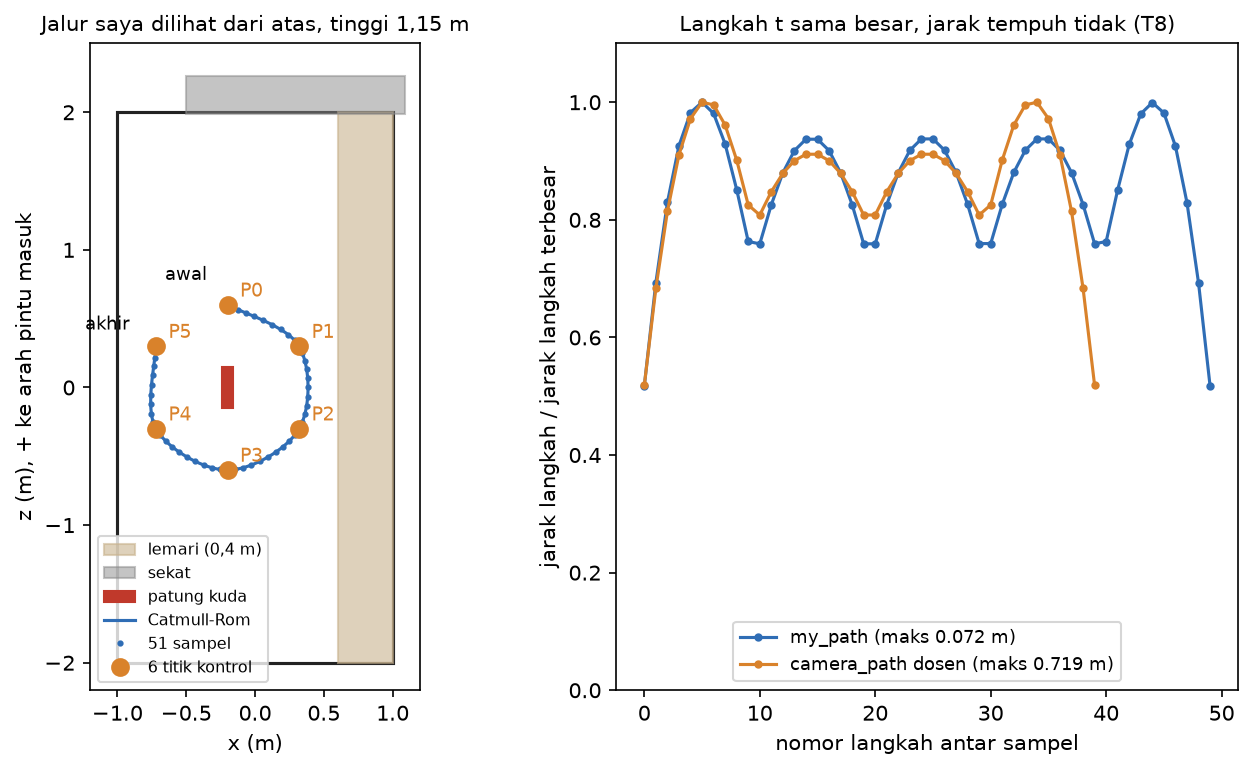
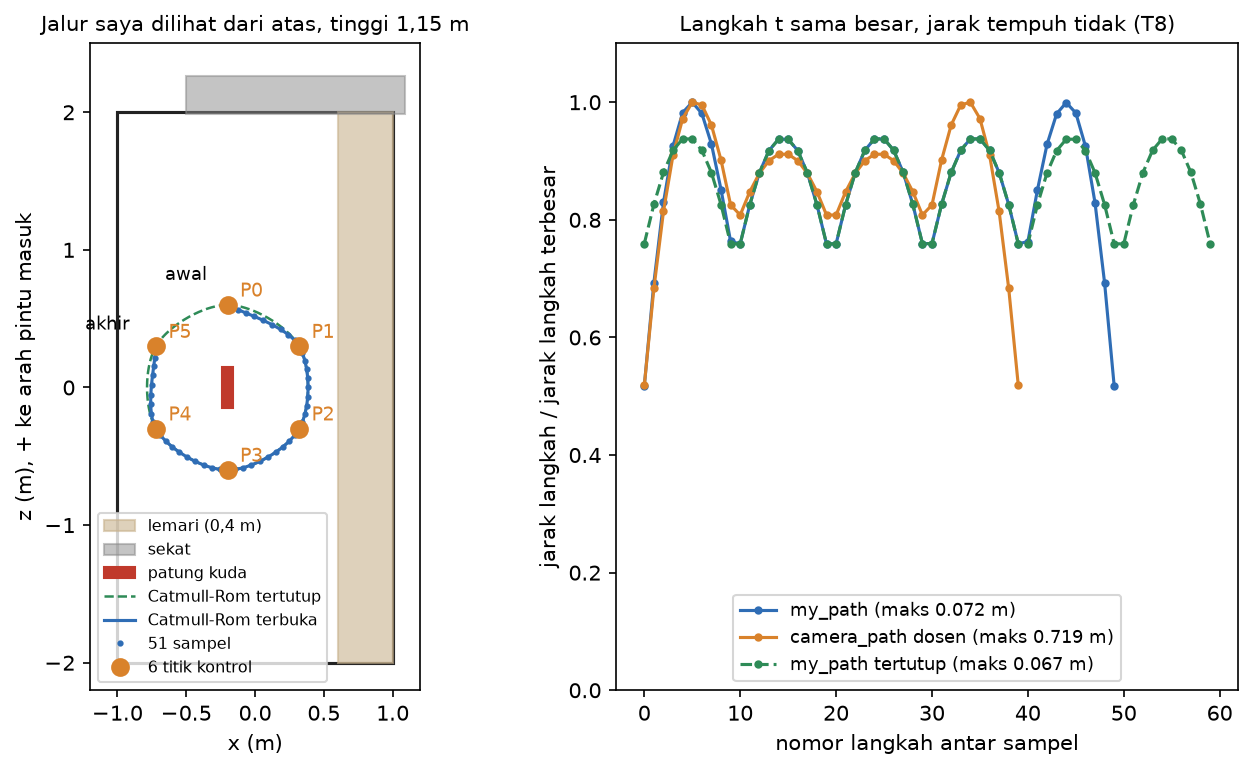
Tambah spline Catmull-Rom tertutup supaya jalur kamera bisa memutari patung penuh, dan buktikan sambungannya mulus di semua titik termasuk dari titik terakhir kembali ke titik pertama

diff --git a/Module4/Source/spline.py b/Module4/Source/spline.py
@@ -6,8 +6,10 @@ P0..P3; the weights below are the rows of the Catmull-Rom basis matrix applied t
 (0, 0, 1, 0) at t = 1 (so the curve passes through P1 and P2), and give the
 tangent (P2 - P0) / 2 at P1, shared by both segments that meet there (C1).
 
-Points are tuples of any length (2D or 3D). The path sampler duplicates the first
-and last control point so the curve starts and ends exactly on them.
+Points are tuples of any length (2D or 3D). The open path sampler duplicates the
+first and last control point so the curve starts and ends exactly on them; the
+closed sampler takes the neighbours cyclically instead, so the last segment runs
+back to the first point with the same C1 tangent rule at every point.
 """
 from __future__ import annotations
 
@@ -27,6 +29,23 @@ def catmull_rom_weights(t):
         0.5 * (t + 4.0 * t2 - 3.0 * t3),
         0.5 * (-t2 + t3),
     )
+
+
+def catmull_rom_weight_slopes(t):
+    """d/dt of catmull_rom_weights(t): the weights of the tangent q'(t)."""
+    t2 = t * t
+    return (
+        0.5 * (-1.0 + 4.0 * t - 3.0 * t2),
+        0.5 * (-10.0 * t + 9.0 * t2),
+        0.5 * (1.0 + 8.0 * t - 9.0 * t2),
+        0.5 * (-2.0 * t + 3.0 * t2),
+    )
+
+
+def catmull_rom_tangent(p0, p1, p2, p3, t):
+    """Tangent q'(t) on the segment between p1 and p2 (per unit t)."""
+    w = catmull_rom_weight_slopes(t)
+    return tuple(w[0] * a + w[1] * b + w[2] * c + w[3] * d for a, b, c, d in zip(p0, p1, p2, p3))
 
 
 def catmull_rom_point(p0, p1, p2, p3, t):
@@ -50,6 +69,27 @@ def sample_path(control_points, samples_per_segment=20):
         for i in range(samples_per_segment):
             out.append(catmull_rom_point(p0, p1, p2, p3, i / samples_per_segment))
     out.append(pts[-2])
+    return out
+
+
+def closed_segments(control_points):
+    """(p0, p1, p2, p3) of every segment of the closed loop, neighbours taken cyclically."""
+    pts = [tuple(p) for p in control_points]
+    n = len(pts)
+    return [(pts[i - 1], pts[i], pts[(i + 1) % n], pts[(i + 2) % n]) for i in range(n)]
+
+
+def sample_closed_path(control_points, samples_per_segment=20):
+    """Sample a closed Catmull-Rom loop through >= 3 control points.
+
+    k control points give k segments and k * n samples; sample i * n is exactly
+    control point i, and the loop closes because the sample after the last one is
+    control point 0 again (it is not repeated in the list).
+    """
+    out = []
+    for p0, p1, p2, p3 in closed_segments(control_points):
+        for i in range(samples_per_segment):
+            out.append(catmull_rom_point(p0, p1, p2, p3, i / samples_per_segment))
     return out
 
 
@@ -94,6 +134,9 @@ if __name__ == "__main__":
         print(f"  path start = {_fmt(path[0])}")
         print(f"  path end   = {_fmt(path[-1])}")
         print(f"  sample spacing min {min(gaps):.3f}, max {max(gaps):.3f} (equal t steps, unequal distance)")
+    loop = sample_closed_path(load_my_path(), samples_per_segment=10)
+    gaps = sample_spacing(loop + [loop[0]])
+    print(f"my_path.json closed loop: {len(loop)} samples, spacing min {min(gaps):.3f}, max {max(gaps):.3f}")
     print("my_path.json samples (x, y, z) in m:")
     for i, p in enumerate(sample_path(load_my_path(), samples_per_segment=10)):
         print(f"  {i:2d} {_fmt(p)}")

diff --git a/Module4/Source/tests.py b/Module4/Source/tests.py
@@ -12,7 +12,8 @@ import random
 from fk import Bone, bone_matrices, forward_kinematics, running_example as fk_running_example
 from ik import fk_error, solve_two_bone_ik, UnreachableTarget, running_example as ik_running_example
 from spline import (
-    catmull_rom_weights, sample_path, load_camera_path, load_my_path, load_path,
+    catmull_rom_weights, catmull_rom_point, catmull_rom_tangent, closed_segments, sample_closed_path,
+    sample_path, sample_spacing, load_camera_path, load_my_path, load_path,
     running_example as spline_running_example,
 )
 from quaternion import (
@@ -208,6 +209,37 @@ def test_my_path():
         check(f"catmull-rom weights sum to 1 at t={t}", sum(catmull_rom_weights(t)), 1.0, tol=1e-12)
 
 
+def test_closed_path():
+    """Closed loop through my 6 points: passes them, C1 at every joint, still clear of the walls."""
+    cps = load_my_path()
+    loop = sample_closed_path(cps, samples_per_segment=10)
+    check("closed my_path: 6 points -> 60 samples (6 segments, the loop closes on point 0)", len(loop), 60)
+    for i, cp in enumerate(cps):
+        check_point(f"closed path passes control point {i}", loop[10 * i], cp, tol=0.0)
+    segs = closed_segments(cps)
+    worst_join = worst_rule = 0.0
+    for i in range(len(segs)):
+        left = catmull_rom_tangent(*segs[i - 1], 1.0)    # end of the segment arriving at point i
+        right = catmull_rom_tangent(*segs[i], 0.0)       # start of the segment leaving point i
+        rule = tuple((a - b) / 2.0 for a, b in zip(segs[i][2], segs[i][0]))   # (P(i+1) - P(i-1)) / 2
+        worst_join = max(worst_join, math.dist(left, right))
+        worst_rule = max(worst_rule, math.dist(right, rule))
+    check("closed path is C1 at all 6 joints, including the one back to point 0", worst_join, 0.0, tol=1e-12)
+    check("tangent at each point = (next - previous) / 2", worst_rule, 0.0, tol=1e-12)
+    p0, p1, p2, p3 = segs[2]
+    h = 1e-6
+    fd = tuple((a - b) / (2 * h) for a, b in zip(catmull_rom_point(p0, p1, p2, p3, 0.37 + h),
+                                                 catmull_rom_point(p0, p1, p2, p3, 0.37 - h)))
+    check("catmull_rom_tangent = finite difference of catmull_rom_point", math.dist(fd, catmull_rom_tangent(
+        p0, p1, p2, p3, 0.37)), 0.0, tol=1e-8)
+    dense = sample_closed_path(cps, samples_per_segment=200)
+    clearance = min(min(p[0] + 1.0, 0.6 - p[0], p[2] + 2.0, 2.0 - p[2]) for p in dense)
+    check("closed path keeps >= 0.2 m from the walls and the cabinet", clearance >= 0.2, True)
+    gaps = sample_spacing(loop + [loop[0]])
+    check("closed loop spacing is more even than the open path (max/min)", max(gaps) / min(gaps) < max(
+        sample_spacing(sample_path(cps, 10))) / min(sample_spacing(sample_path(cps, 10))), True)
+
+
 def test_camera_path_copies():
     """Godot cannot read res://../, so it has its own copy: control points must stay identical (K11)."""
     a = load_camera_path()
@@ -339,6 +371,7 @@ if __name__ == "__main__":
     test_fk_matrices()
     test_spline()
     test_my_path()
+    test_closed_path()
     test_camera_path_copies()
     test_quaternion()
     test_quaternion_algebra()

diff --git a/Module4/Source/figures.py b/Module4/Source/figures.py
@@ -27,7 +27,7 @@ from foot_slide_bug import (  # noqa: E402
     REPORTED_SPEED, STRIDE_CHANGE, constant_speed, diagnose, matched_speed, root_motion, walk,
 )
 from my_chain import angles_from_photo, load_chain  # noqa: E402
-from spline import load_camera_path, load_my_path, sample_path, sample_spacing  # noqa: E402
+from spline import load_camera_path, load_my_path, sample_closed_path, sample_path, sample_spacing  # noqa: E402
 
 HERE = os.path.dirname(os.path.abspath(__file__))
 DEFAULT_OUT = {
@@ -336,7 +336,10 @@ def fig_my_path(out_dir):
     a1.add_patch(plt.Rectangle((0.6, -2.0), 0.4, 4.0, color="#c9b38f", alpha=0.6, label="lemari (0,4 m)"))
     a1.add_patch(plt.Rectangle((-0.5, 1.99), 1.59, 0.27, color=MUTED, alpha=0.5, label="sekat"))
     a1.add_patch(plt.Rectangle((-0.24, -0.15), 0.08, 0.30, color=BAD, label="patung kuda"))
-    a1.plot([p[0] for p in dense], [p[2] for p in dense], color=BONE1, lw=1.5, label="Catmull-Rom")
+    loop = sample_closed_path(cps, samples_per_segment=100)
+    loop.append(loop[0])
+    a1.plot([p[0] for p in loop], [p[2] for p in loop], color=GOOD, lw=1.2, ls="--", label="Catmull-Rom tertutup")
+    a1.plot([p[0] for p in dense], [p[2] for p in dense], color=BONE1, lw=1.5, label="Catmull-Rom terbuka")
     a1.plot([p[0] for p in path], [p[2] for p in path], ".", color=BONE1, ms=4, label="51 sampel")
     a1.plot([p[0] for p in cps], [p[2] for p in cps], "o", color=BONE2, ms=8, label="6 titik kontrol")
     for i, p in enumerate(cps):
@@ -356,6 +359,10 @@ def fig_my_path(out_dir):
             label=f"my_path (maks {max(mine):.3f} m)")
     a2.plot(range(len(theirs)), [g / max(theirs) for g in theirs], color=BONE2, marker=".",
             label=f"camera_path dosen (maks {max(theirs):.3f} m)")
+    closed = sample_closed_path(cps, samples_per_segment=10)
+    shut = sample_spacing(closed + [closed[0]])
+    a2.plot(range(len(shut)), [g / max(mine) for g in shut], color=GOOD, marker=".", ls="--",
+            label=f"my_path tertutup (maks {max(shut):.3f} m)")
     a2.set_ylim(0, 1.1)
     a2.set_xlabel("nomor langkah antar sampel")
     a2.set_ylabel("jarak langkah / jarak langkah terbesar")

diff --git a/Module4/docs/catatan/fase3-primitif.md b/Module4/docs/catatan/fase3-primitif.md
@@ -131,3 +131,25 @@ Saya juga membuktikan `test_stdlib_only` benar-benar bisa gagal: setelah `import
 ## Gambar
 
 `figures.py --set readme` sekarang membuat `docs/img/my_chain_fk.png`, `docs/img/ik_my_arm.png`, dan `docs/img/my_path.png`. Dua gambar Studi Pendahuluan (`q3_slerp_vs_linear.png` dan `q3_spline_vs_linear.png`) ikut saya buat ulang dengan kode baru. Perbedaannya hanya 141 pixel dan 2 pixel, dengan selisih warna paling besar 2 dari 255 (pembulatan float di urutan 1e-15 yang menggeser antialiasing). Saya tetap meng-commit versi barunya, supaya file di repo sama persis dengan yang dihasilkan kode sekarang.
+
+## Tambahan 31 Oktober 2026: Catmull-Rom tertutup
+
+Di atas saya mencatat keterbatasan bahwa `sample_path` hanya bisa membuat jalur terbuka: titik pertama dan terakhir digandakan, jadi jalur 300° saya berhenti di P5 dan tidak menyambung ke P0. Di Godot kamera akhirnya harus bolak-balik. Sekarang `spline.py` punya `sample_closed_path()`. Bedanya hanya pada cara mengambil titik tetangga: segmen ke-i memakai P(i-1), P(i), P(i+1), P(i+2) dengan indeks yang berputar (setelah P5 kembali ke P0), sehingga ada satu segmen tambahan dari P5 kembali ke P0. Enam titik menjadi 6 segmen dan 60 sampel. Sampel ke-60 akan sama dengan sampel ke-0, jadi tidak ikut ditulis.
+
+Supaya kehalusannya bisa dibuktikan, saya juga menambah `catmull_rom_tangent()`: turunan q'(t) yang memakai turunan keempat bobot basis. Hasil cek dari `tests.py`:
+
+| Pemeriksaan | Hasil |
+|---|---|
+| sampel ke-0, 10, ..., 50 tepat di titik kontrol | selisih 0 (bobot di t = 0 tepat (0, 1, 0, 0)) |
+| tangen di ujung segmen yang datang = tangen di awal segmen yang pergi, di keenam sambungan termasuk P5 ke P0 | selisih 0 |
+| tangen di setiap titik = (titik berikutnya - titik sebelumnya) / 2 | selisih 0 |
+| `catmull_rom_tangent` vs beda hingga dari `catmull_rom_point` | 6e-11 |
+| jarak terdekat ke dinding dan lemari (1200 sampel) | 0,215 m |
+| jarak ke patung | 0,585 sampai 0,6003 m |
+| jarak antar sampel | 5,45 sampai 6,73 cm (terbuka: 3,71 sampai 7,18 cm) |
+
+Jalur tertutup lebih rata, karena tidak ada lagi titik yang digandakan. Langkah paling pendek di ujung jalur terbuka (setengah tangen) hilang, dan rasio langkah terpanjang ke terpendek turun dari 1,94 menjadi 1,23. Kurva juga memotong ke dalam lingkaran lebih sedikit (paling dekat 0,585 m, sebelumnya 0,551 m), karena segmen P5 ke P0 dan P0 ke P1 sekarang punya tetangga yang sebenarnya. Keterbatasan C1 tetap ada: percepatannya masih bisa melompat di titik kontrol, karena Catmull-Rom bukan C2.
+
+![Jalur terbuka, tertutup, dan jarak antar sampel](../img/my_path.png)
+
+Test bertambah dari 134 menjadi 158 (`test_closed_path`).
